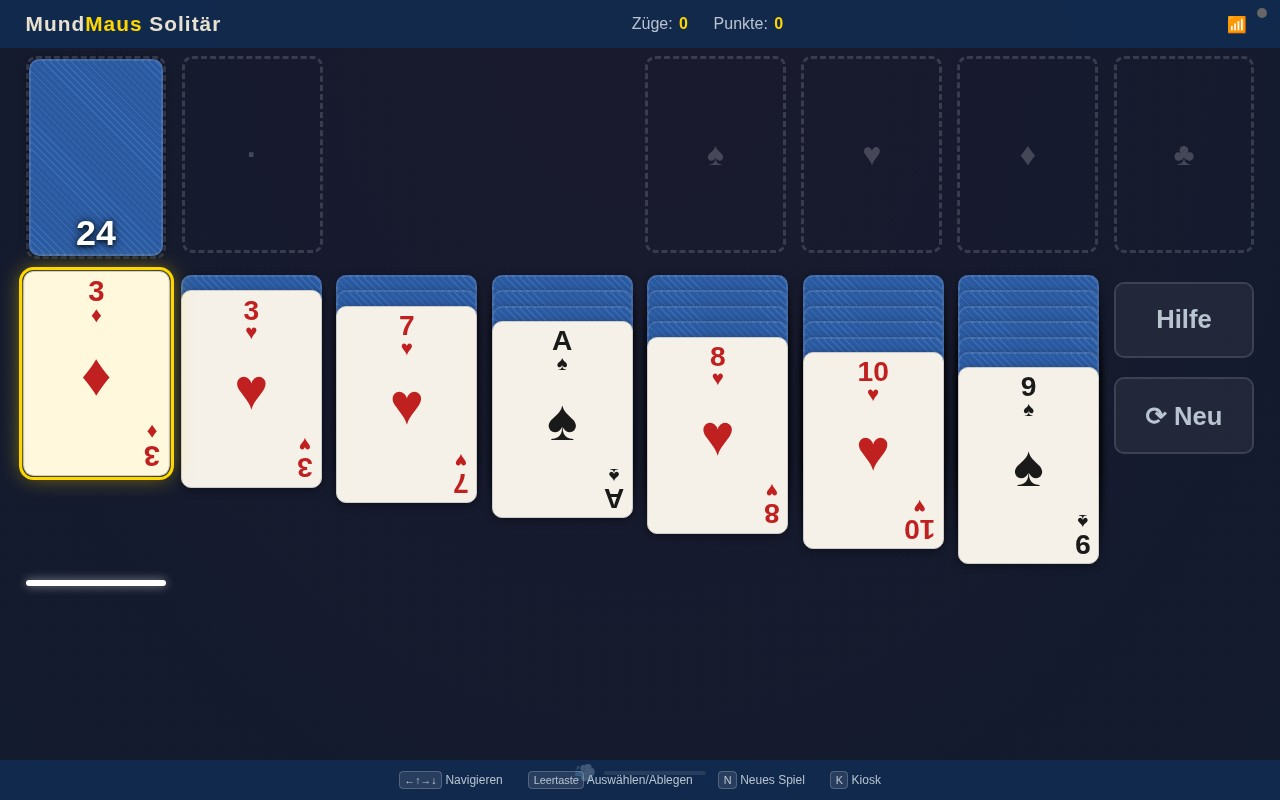
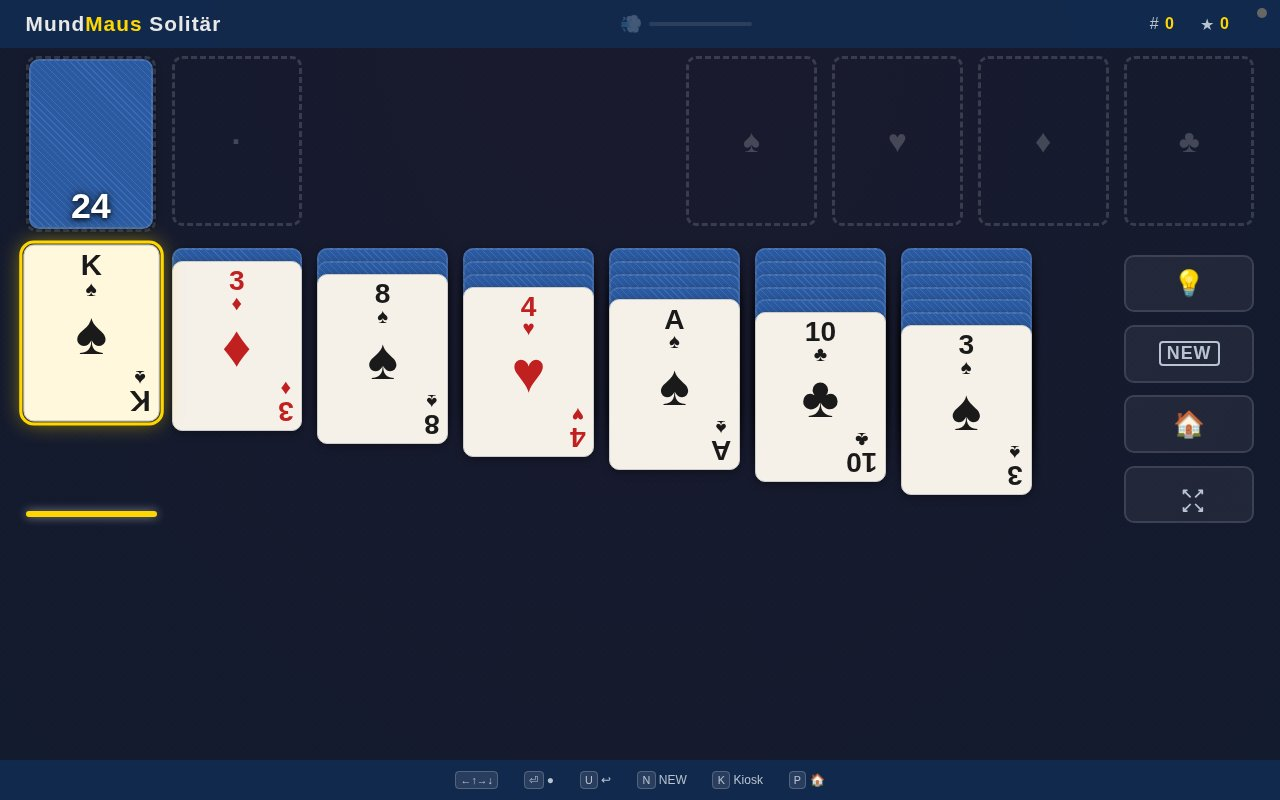
feat(website): GitHub live — update screenshots, remove "coming soon"
- Open Source section: "Bald auf GitHub" → "Jetzt auf GitHub" with live link
- Remove "In Arbeit" badge, add "Open Source" badge
- Hero button links to GitHub repo
- Fresh game screenshots (current icon-based UI)
- Mention both firmware variants (MicroPython + Arduino C++)

diff --git a/website/index.html b/website/index.html
@@ -44,7 +44,7 @@
     </p>
     <div class="hero-actions">
       <a href="#about" class="btn btn-primary">Mehr erfahren</a>
-      <a href="#opensource" class="btn btn-outline">
+      <a href="https://github.com/mibragri/mundmaus" class="btn btn-outline">
         <svg viewBox="0 0 24 24" fill="none" stroke="currentColor" stroke-width="2" stroke-linecap="round" stroke-linejoin="round"><path d="M9 19c-5 1.5-5-2.5-7-3m14 6v-3.87a3.37 3.37 0 0 0-.94-2.61c3.14-.35 6.44-1.54 6.44-7A5.44 5.44 0 0 0 20 4.77 5.07 5.07 0 0 0 19.91 1S18.73.65 16 2.48a13.38 13.38 0 0 0-7 0C6.27.65 5.09 1 5.09 1A5.07 5.07 0 0 0 5 4.77a5.44 5.44 0 0 0-1.5 3.78c0 5.42 3.3 6.61 6.44 7A3.37 3.37 0 0 0 9 18.13V22"/></svg>
         GitHub
       </a>
@@ -222,15 +222,15 @@
       <h2>Open Source</h2>
     </div>
     <div class="oss-banner reveal">
-      <span class="oss-badge">&#x1F6A7; In Arbeit</span>
-      <h3>Bald auf GitHub</h3>
+      <span class="oss-badge">&#x2705; Open Source</span>
+      <h3>Jetzt auf GitHub</h3>
       <p>
-        Firmware, Spiele, Gehäuse-Dateien und Bauanleitung &mdash;
-        alles wird als Open-Source-Projekt veröffentlicht.
+        Firmware (MicroPython + Arduino C++), Spiele, 3D-Geh&auml;use und Bauanleitung &mdash;
+        alles frei verf&uuml;gbar. Kosten: ~25 EUR, kein L&ouml;ten n&ouml;tig.
       </p>
-      <a href="#" class="btn btn-github disabled">
+      <a href="https://github.com/mibragri/mundmaus" class="btn btn-github">
         <svg viewBox="0 0 24 24" fill="currentColor" width="18" height="18"><path d="M12 0C5.37 0 0 5.37 0 12c0 5.31 3.435 9.795 8.205 11.385.6.105.825-.255.825-.57 0-.285-.015-1.23-.015-2.235-3.015.555-3.795-.735-4.035-1.41-.135-.345-.72-1.41-1.23-1.695-.42-.225-1.02-.78-.015-.795.945-.015 1.62.87 1.845 1.23 1.08 1.815 2.805 1.305 3.495.99.105-.78.42-1.305.765-1.605-2.67-.3-5.46-1.335-5.46-5.925 0-1.305.465-2.385 1.23-3.225-.12-.3-.54-1.53.12-3.18 0 0 1.005-.315 3.3 1.23.96-.27 1.98-.405 3-.405s2.04.135 3 .405c2.295-1.56 3.3-1.23 3.3-1.23.66 1.65.24 2.88.12 3.18.765.84 1.23 1.905 1.23 3.225 0 4.605-2.805 5.625-5.475 5.925.435.375.81 1.095.81 2.22 0 1.605-.015 2.895-.015 3.3 0 .315.225.69.825.57A12.02 12.02 0 0024 12c0-6.63-5.37-12-12-12z"/></svg>
-        GitHub (bald verfügbar)
+        GitHub
       </a>
     </div>
   </div>
